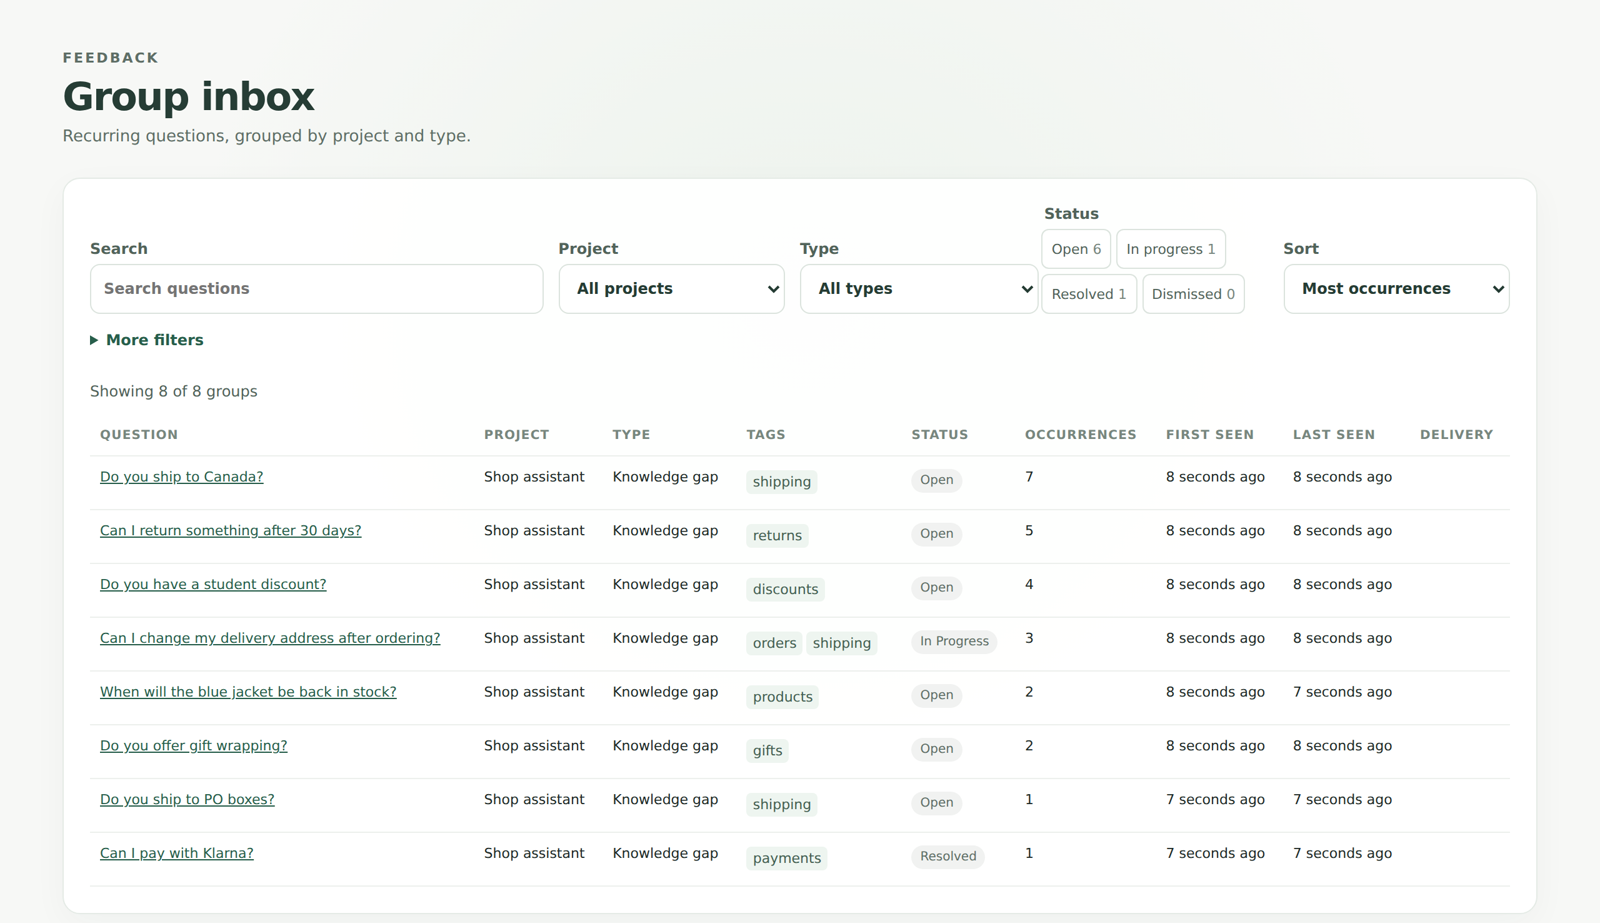
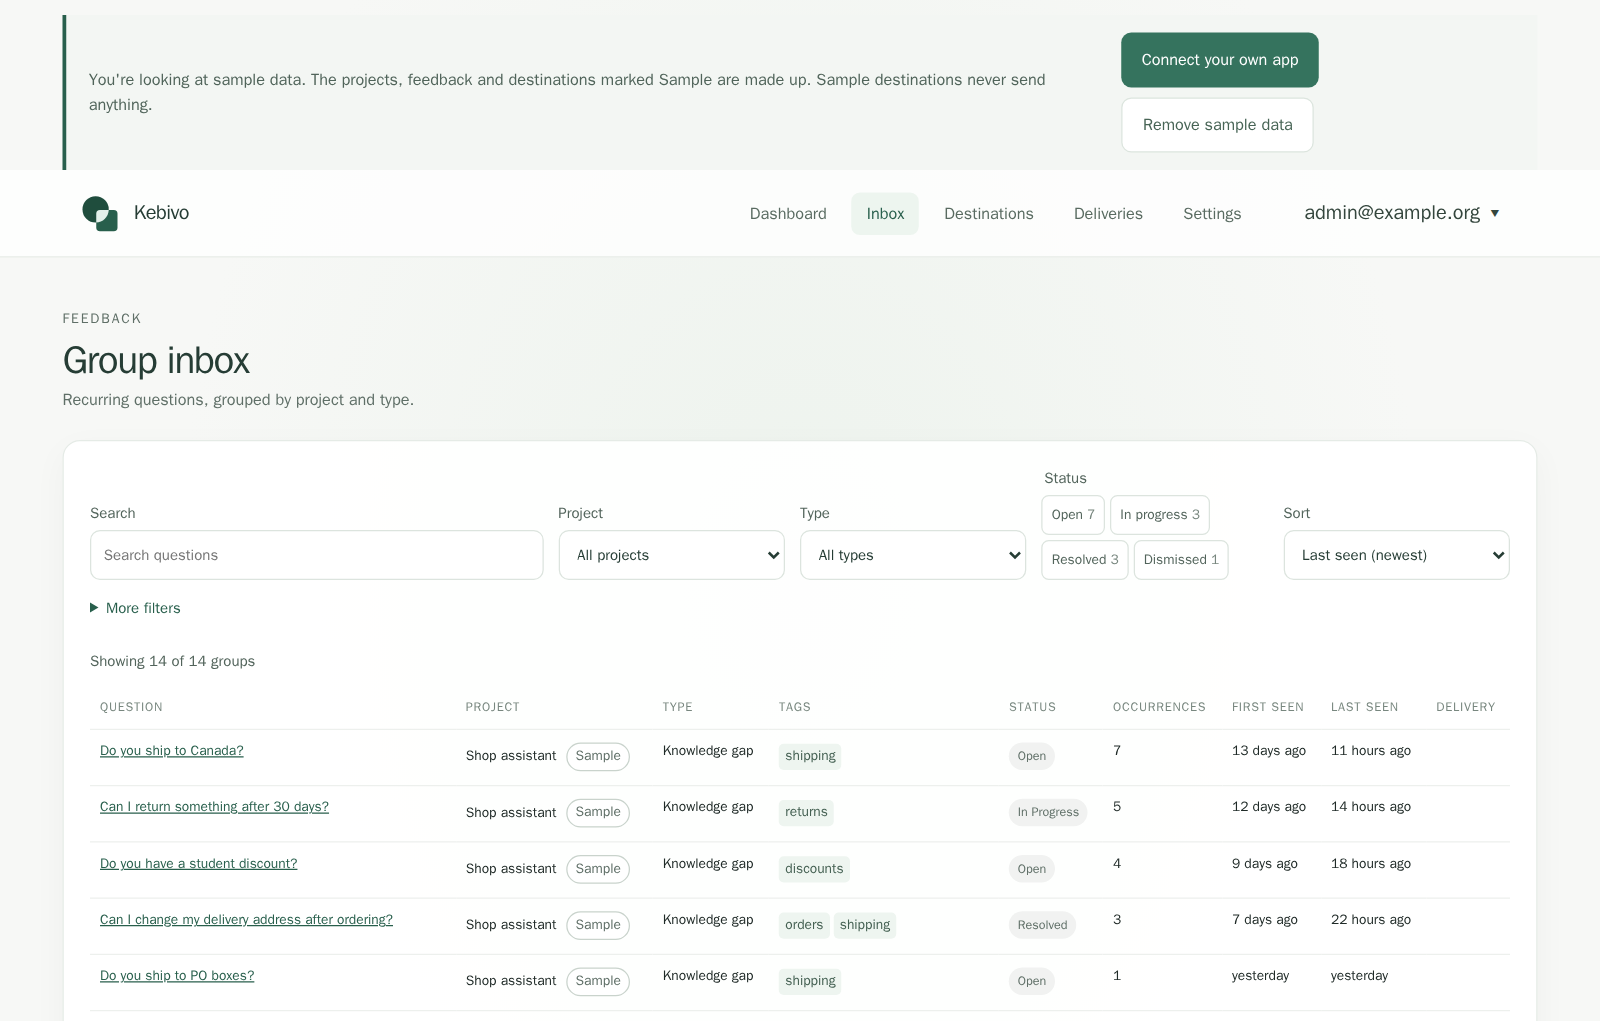
Capture the screenshots from the first-run setup page
make e2e-ui SCREENSHOTS=1 now creates the administrator on the
browser setup page with the built-in sample data, instead of the CLI
bootstrap. It saves the setup page as 00-first-run.png and the sample
inbox as the README hero, then removes the sample data and captures
the gallery as before.

Add the setup page to the README gallery and the quickstart, and make
regenerating the screenshots the first release step. Remove the old
0.2.0 capture script and its unused dashboard image.

diff --git a/frontend/e2e/screenshots.spec.ts b/frontend/e2e/screenshots.spec.ts
@@ -1,12 +1,14 @@
 import { mkdirSync } from 'node:fs';
 import path from 'node:path';
 import { expect, test, type Locator, type Page } from '@playwright/test';
-import { setLlmScenario, signIn } from './helpers';
+import { ADMIN_EMAIL, ADMIN_PASSWORD, setLlmScenario, signIn } from './helpers';
 import { seed, type Seeded } from './seed';
 
-// README screenshots (docs/images). Only runs from `make e2e-ui SCREENSHOTS=1`, on a fresh stack:
-// the seed assumes an empty database and the journey spec is skipped in that mode.
+// README screenshots (docs/images, docs/assets/screenshots). Only runs from `make e2e-ui SCREENSHOTS=1`,
+// on a fresh stack with no administrator: 00 creates the admin through the setup link with the
+// built-in sample data, captures it, removes it, then seeds the database for the other screenshots.
 const OUT = path.resolve(process.cwd(), '../docs/images');
+const HERO = path.resolve(process.cwd(), '../docs/assets/screenshots');
 test.skip(!process.env.E2E_SCREENSHOTS, 'set by scripts/e2e-ui.sh screenshots');
 test.describe.configure({ mode: 'serial' });
 test.setTimeout(180_000);
@@ -14,9 +16,8 @@ test.setTimeout(180_000);
 let data: Seeded;
 let page: Page;
 
-test.beforeAll(async ({ browser, baseURL }) => {
+test.beforeAll(async ({ browser }) => {
   mkdirSync(OUT, { recursive: true });
-  data = await seed(baseURL!);
   page = await (await browser.newContext({ viewport: { width: 1280, height: 800 }, deviceScaleFactor: 1 })).newPage();
 });
 
@@ -32,6 +33,45 @@ async function openProject(name: string) {
   await page.getByRole('button', { name: new RegExp(name) }).first().click();
   await expect(page.getByRole('heading', { name: 'Connect an application' })).toBeVisible();
 }
+
+test('00 first-run setup with the built-in sample data', async ({ browser, baseURL }) => {
+  const setup = await (await browser.newContext({ viewport: { width: 1280, height: 800 }, deviceScaleFactor: 1 })).newPage();
+  await setup.goto(`/setup#token=${process.env.E2E_SETUP_TOKEN}`);
+  await expect(setup.getByRole('heading', { name: 'Create your administrator account' })).toBeVisible();
+  await setup.getByLabel('Email address').fill(ADMIN_EMAIL);
+  await setup.getByLabel('Password', { exact: true }).fill(ADMIN_PASSWORD);
+  await expect(setup.getByRole('checkbox', { name: /Start with sample data/ })).toBeChecked();
+  await setup.evaluate(() => (document.activeElement as HTMLElement | null)?.blur());
+  await setup.screenshot({ path: path.join(OUT, '00-first-run.png') });
+  await setup.getByRole('button', { name: 'Create account' }).click();
+  await expect(setup.getByRole('heading', { name: 'Group inbox', level: 1 })).toBeVisible();
+  // The inbox opens on the shop sample: newest activity first.
+  const top = setup.locator('.group-table tbody tr').first();
+  await expect(top).toContainText('Do you ship to Canada?');
+  await expect(top).toContainText('Shop assistant');
+  await expect(top.locator('td').nth(5)).toHaveText('7');
+  const firstInbox = path.resolve(process.cwd(), '../artifacts/first-run/sample-inbox.png');
+  mkdirSync(path.dirname(firstInbox), { recursive: true });
+  await setup.screenshot({ path: firstInbox, fullPage: true });
+
+  // The README hero: the sample inbox down to the last shop row, 1600 px wide, without the one-off setup notice.
+  const hero = await (await browser.newContext({ viewport: { width: 1280, height: 800 }, deviceScaleFactor: 1.25 })).newPage();
+  await signIn(hero);
+  await expect(hero.getByRole('heading', { name: 'Dashboard', level: 1 })).toBeVisible();
+  await hero.goto('/inbox');
+  const shopRows = hero.locator('.group-table tbody tr').filter({ hasText: 'Shop assistant' });
+  await expect(shopRows.first()).toContainText('Do you ship to Canada?');
+  await hero.waitForLoadState('networkidle');
+  const lastShop = (await shopRows.last().boundingBox())!;
+  await hero.screenshot({ path: path.join(HERO, 'inbox.png'), fullPage: true, clip: { x: 0, y: 0, width: 1280, height: Math.ceil(lastShop.y + lastShop.height + 8) } });
+
+  await setup.getByRole('button', { name: 'Remove sample data' }).click();
+  await setup.getByRole('dialog').getByRole('button', { name: 'Remove sample data' }).click();
+  await expect(setup.getByText('Sample data removed.')).toBeVisible();
+  await setup.context().close();
+  await hero.context().close();
+  data = await seed(baseURL!);
+});
 
 test('10 sign-in', async ({ browser }) => {
   const anon = await (await browser.newContext({ viewport: { width: 640, height: 520 } })).newPage();

diff --git a/docs/releasing.md b/docs/releasing.md
@@ -14,11 +14,12 @@ The check verifies the version and clean tree, then runs `make check`, `make aud
 
 ## Publishing
 
-1. Bump the version in `pyproject.toml` and `server.json` (`version` and the image tag in `identifier`), update `CHANGELOG.md`, and merge to `main` with green CI.
-2. Push an annotated tag `vX.Y.Z` on that commit. `.github/workflows/release.yml` runs `make release-check` (the upgrade check starts from the previous `v*.*.*` tag, or the root commit if there is none), then builds `linux/amd64` and `linux/arm64` with QEMU, pushes `ghcr.io/ocnai/kebivo:X.Y.Z` and `:latest` with the workflow's `GITHUB_TOKEN`, and checks the labels on both platforms. Manual dispatch of the same workflow runs the checks without publishing.
-3. Create the GitHub Release from the tag, with notes taken from `CHANGELOG.md`.
-4. Check that the image pulls without a login: `docker logout ghcr.io; docker pull ghcr.io/ocnai/kebivo:X.Y.Z`. A new GHCR package starts private; an organization owner makes it public once under the package's **Package settings**.
-5. Run the **MCP Registry** workflow (`.github/workflows/mcp-registry.yml`, manual dispatch) to publish `server.json`. See [MCP Registry metadata](mcp-registry.md).
+1. Regenerate the screenshots on `next`: run `make e2e-ui SCREENSHOTS=1` and commit the changed `docs/images/*.png` and `docs/assets/screenshots/inbox.png`, so the README and quickstart show this release's UI. Look at each image before committing.
+2. Bump the version in `pyproject.toml` and `server.json` (`version` and the image tag in `identifier`), update `CHANGELOG.md`, and merge to `main` with green CI.
+3. Push an annotated tag `vX.Y.Z` on that commit. `.github/workflows/release.yml` runs `make release-check` (the upgrade check starts from the previous `v*.*.*` tag, or the root commit if there is none), then builds `linux/amd64` and `linux/arm64` with QEMU, pushes `ghcr.io/ocnai/kebivo:X.Y.Z` and `:latest` with the workflow's `GITHUB_TOKEN`, and checks the labels on both platforms. Manual dispatch of the same workflow runs the checks without publishing.
+4. Create the GitHub Release from the tag, with notes taken from `CHANGELOG.md`.
+5. Check that the image pulls without a login: `docker logout ghcr.io; docker pull ghcr.io/ocnai/kebivo:X.Y.Z`. A new GHCR package starts private; an organization owner makes it public once under the package's **Package settings**.
+6. Run the **MCP Registry** workflow (`.github/workflows/mcp-registry.yml`, manual dispatch) to publish `server.json`. See [MCP Registry metadata](mcp-registry.md).
 
 ## Repository history
 

diff --git a/README.md b/README.md
@@ -63,14 +63,16 @@ All screenshots use synthetic data.
 
 | | |
 | --- | --- |
-| ![Dashboard with feedback counts by status and the top recurring open gaps](docs/images/01-dashboard.png) | ![Group inbox filtered by the tag it, with status counts and filters](docs/images/02-inbox.png) |
-| **Dashboard** | **Inbox** |
-| ![Feedback group with occurrences, notes, history and deliveries](docs/images/03-group-detail.png) | ![Project page with the REST and MCP connection snippets (cURL tab)](docs/images/04-connect.png) |
-| **Feedback group** | **Connect a client** |
-| ![Ordered routing rules, the fallback destination and the dry-run simulator](docs/images/05-routing.png) | ![A failed webhook delivery with its attempts and a Retry button](docs/images/07-deliveries.png) |
-| **Routing rules** | **Failed delivery** |
+| ![First-time setup page: create the administrator account, with Start with sample data selected](docs/images/00-first-run.png) | ![Dashboard with feedback counts by status and the top recurring open gaps](docs/images/01-dashboard.png) |
+| **First-run setup** | **Dashboard** |
+| ![Group inbox filtered by the tag it, with status counts and filters](docs/images/02-inbox.png) | ![Feedback group with occurrences, notes, history and deliveries](docs/images/03-group-detail.png) |
+| **Inbox** | **Feedback group** |
+| ![Project page with the REST and MCP connection snippets (cURL tab)](docs/images/04-connect.png) | ![Ordered routing rules, the fallback destination and the dry-run simulator](docs/images/05-routing.png) |
+| **Connect a client** | **Routing rules** |
+| ![A failed webhook delivery with its attempts and a Retry button](docs/images/07-deliveries.png) | ![Destinations: the built-in inbox, a webhook and an SMTP mail destination](docs/images/06-destinations.png) |
+| **Failed delivery** | **Destinations** |
 
-More: [destinations](docs/images/06-destinations.png), [settings](docs/images/08-settings.png), [LLM settings](docs/images/09-llm-settings.png), [sign-in](docs/images/10-sign-in.png). Regenerate them with `make e2e-ui SCREENSHOTS=1`.
+More: [settings](docs/images/08-settings.png), [LLM settings](docs/images/09-llm-settings.png), [sign-in](docs/images/10-sign-in.png). Regenerate them with `make e2e-ui SCREENSHOTS=1`.
 
 The demo's product frames come from a real container with sample data; its chat and end card are drawn. See the [demo source](docs/assets/demo-src/README.md).
 

diff --git a/docs/assets/demo-src/README.md b/docs/assets/demo-src/README.md
@@ -42,18 +42,4 @@ node capture/capture.mjs
 
 ## Re-capture the README screenshots
 
-Use a separate fresh container so the sample inbox has exactly the eight questions in `capture/readme-shots.mjs`. From this directory, after `npm ci` and with Playwright installed in `frontend/node_modules`:
-
-```sh
-docker run -d --name kreadme -p 127.0.0.1:18322:8000 \
-  -e SECRET_KEY=$(openssl rand -hex 32) -e ENCRYPTION_KEY=$(openssl rand -hex 32) \
-  -e ALLOWED_ORIGINS=http://127.0.0.1:18322 ghcr.io/ocnai/kebivo:0.2.0
-printf 'DemoPassw0rd-2026\nDemoPassw0rd-2026\n' | docker exec -i kreadme python -m kebivo.cli bootstrap --email admin@example.org --password-stdin
-BASE=http://127.0.0.1:18322 node capture/readme-shots.mjs
-node_modules/ffmpeg-static/ffmpeg -loglevel error -y -i shots-readme/raw-inbox.png \
-  -vf 'scale=1600:-1,crop=1600:923:0:90' -frames:v 1 ../screenshots/inbox.png
-node_modules/ffmpeg-static/ffmpeg -loglevel error -y -i shots-readme/raw-dashboard.png \
-  -vf 'scale=1700:-1,crop=1600:621:50:270' -frames:v 1 ../screenshots/dashboard.png
-```
-
-Wait for `/health/ready` before bootstrap. The capture creates the Shop assistant project and synthetic reports; it sorts the inbox by occurrence count for the README image.
+The README inbox image (`../screenshots/inbox.png`) and the gallery in `docs/images` come from `make e2e-ui SCREENSHOTS=1` in the repository root. It creates the administrator on the setup page with the built-in sample data, so the inbox shows the Shop assistant sample.

diff --git a/docs/quickstart.md b/docs/quickstart.md
@@ -16,6 +16,8 @@ docker run --name kebivo -p 127.0.0.1:8000:8000 \
 
 Open the printed `Kebivo setup:` link in your browser. It expires after 60 minutes; restart the container for a new link. Create your administrator with a password of at least 12 characters. **Start with sample data** is selected by default; it opens a filled inbox with labelled, removable examples. If you map another host port, change `8000` in the printed link to that port. The generated keys live in the named volume; [protect them before using real credentials](self-hosting.md#secrets-and-what-to-protect).
 
+![First-time setup page: create the administrator account, with Start with sample data selected](images/00-first-run.png)
+
 **2. Report the same unanswered question twice.** In **Projects**, create a real project named **Shop assistant** and a token. Copy the token when shown; it is issued once. In a second terminal, enter it. Use a different idempotency key for each occurrence. Reuse a key only when retrying the *same* request.
 
 ```sh
